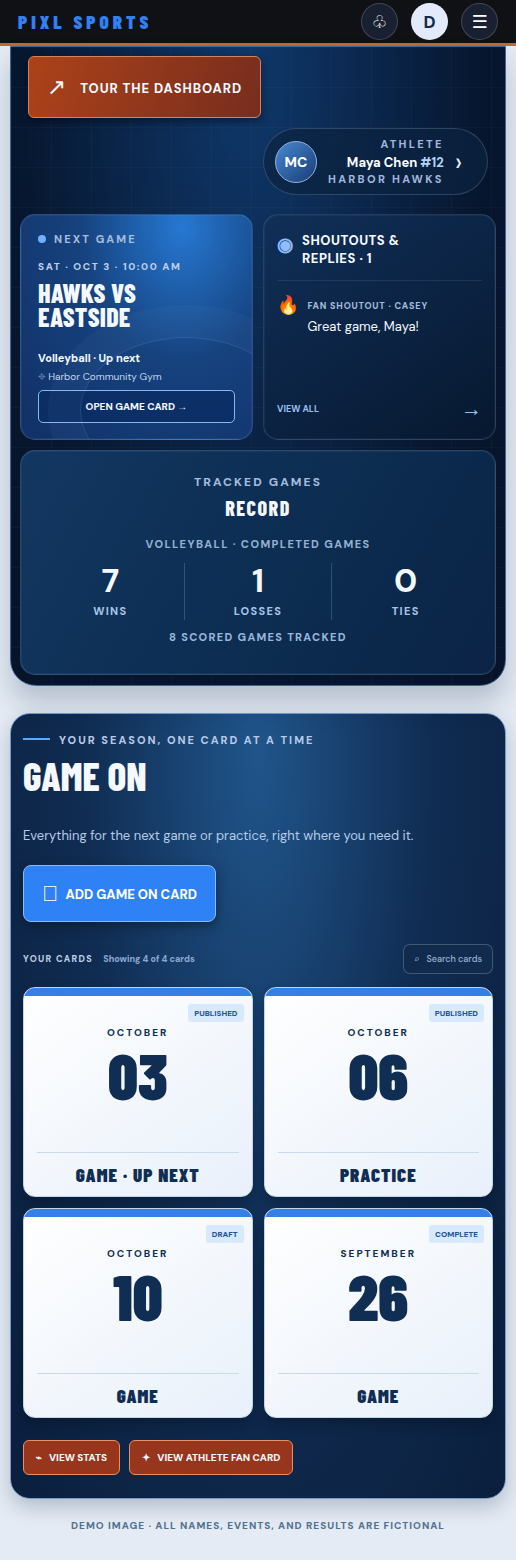
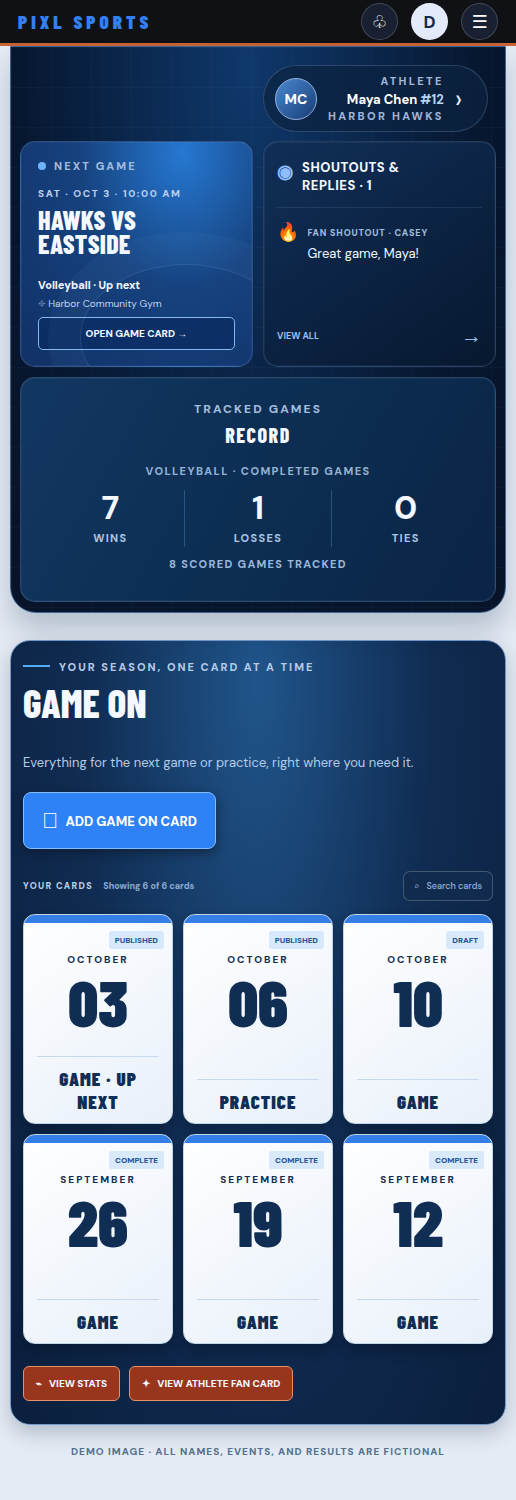
Update agent metadata and dashboard assets
Replit-Commit-Author: Agent

diff --git a/exports/pixl-real-dashboard-demo.html b/exports/pixl-real-dashboard-demo.html
@@ -20,9 +20,7 @@
   .summary {padding:9px 9px 10px;border-radius:0 0 26px 26px;border:1px solid #416593;background:radial-gradient(ellipse at 48% 4%,#10396c 0%,#07172f 65%,#081329 100%);box-shadow:0 17px 27px #061d3d35;position:relative;overflow:hidden}
   .summary:before {content:"";position:absolute;inset:0;opacity:.25;background-image:linear-gradient(90deg,#8ca7ca2b 1px,transparent 1px),linear-gradient(#8ca7ca2b 1px,transparent 1px);background-size:40px 40px;pointer-events:none}
   .summary > * {position:relative;z-index:1}
-  .summary-head {height:158px;padding:0 8px;display:flex;flex-direction:column;align-items:flex-end}
-  .tour {align-self:flex-start;margin:0 0 10px 0;padding:15px 18px;background:linear-gradient(105deg,#ac4219,#782d1e);border:1px solid #d48457;border-radius:6px;box-shadow:0 3px 9px #0007;text-transform:uppercase;font-size:13px;font-weight:800;letter-spacing:.07em}
-  .tour .arrow {font-size:23px;font-weight:400;margin-right:9px;vertical-align:-2px}
+  .summary-head {height:85px;padding:0 8px;display:flex;align-items:center;justify-content:flex-end}
   .athlete {display:flex;align-items:center;gap:11px;min-width:225px;padding:8px 11px;border-radius:70px;border:1px solid #a3bde83a;background:#0b2240b8}
   .avatar {width:42px;height:42px;flex:none;border:1px solid #91b1dc;border-radius:50%;display:grid;place-items:center;font-size:14px;font-weight:800;color:#fff;background:linear-gradient(135deg,#4a88d0,#173d76)}
   .athlete-copy {text-align:right}
@@ -68,7 +66,7 @@
   .toolbar {display:flex;justify-content:space-between;align-items:center;gap:9px;margin:22px 0 13px;color:#bdd1e7;font-size:9px;font-weight:800;letter-spacing:1.3px;text-transform:uppercase}
   .toolbar b {letter-spacing:0;color:#89a9d2;text-transform:none}
   .search {border:1px solid #ffffff35;background:#102b4e;border-radius:7px;color:#9bb5d9;padding:8px 10px;font-size:9px;font-weight:500;letter-spacing:0;text-transform:none;white-space:nowrap}
-  .cards {display:grid;grid-template-columns:1fr 1fr;gap:11px}
+  .cards {display:grid;grid-template-columns:repeat(3,minmax(0,1fr));gap:10px}
   .card {height:210px;position:relative;border:1px solid #bfd5e8;border-radius:12px;background:linear-gradient(145deg,#fff 0%,#e8f0fa 100%);color:#102d53;text-align:center;overflow:hidden;box-shadow:0 7px 12px #04102260}
   .card .stripe {height:8px;background:#367fe7}.card .tag {position:absolute;right:8px;top:16px;color:#205496;background:#d8e9fb;padding:4px 6px;border-radius:3px;font-size:8px;font-weight:800;text-transform:uppercase}
   .card .month {font-size:10px;font-weight:800;letter-spacing:2px;text-transform:uppercase;margin-top:30px}
@@ -84,7 +82,6 @@
   <main>
     <section class="summary">
       <div class="summary-head">
-        <div class="tour"><span class="arrow">↗</span> Tour the dashboard</div>
         <div class="athlete"><span class="avatar">MC</span><span class="athlete-copy"><small>ATHLETE</small><b>Maya Chen <span>#12</span></b><small>HARBOR HAWKS</small></span><span class="chevron">›</span></div>
       </div>
       <div class="tiles">
@@ -98,12 +95,14 @@
       <h2 class="condensed">GAME ON</h2>
       <p class="intro">Everything for the next game or practice, right where you need it.</p>
       <div class="add"><span>＋</span>ADD GAME ON CARD</div>
-      <div class="toolbar"><span>YOUR CARDS &nbsp; <b>Showing 4 of 4 cards</b></span><span class="search">⌕ &nbsp; Search cards</span></div>
+      <div class="toolbar"><span>YOUR CARDS &nbsp; <b>Showing 6 of 6 cards</b></span><span class="search">⌕ &nbsp; Search cards</span></div>
       <div class="cards">
         <article class="card"><div class="stripe"></div><div class="tag">PUBLISHED</div><div class="month">OCTOBER</div><strong>03</strong><div class="kind">Game · Up next</div></article>
         <article class="card"><div class="stripe"></div><div class="tag">PUBLISHED</div><div class="month">OCTOBER</div><strong>06</strong><div class="kind">Practice</div></article>
         <article class="card"><div class="stripe"></div><div class="tag">DRAFT</div><div class="month">OCTOBER</div><strong>10</strong><div class="kind">Game</div></article>
         <article class="card"><div class="stripe"></div><div class="tag">COMPLETE</div><div class="month">SEPTEMBER</div><strong>26</strong><div class="kind">Game</div></article>
+        <article class="card"><div class="stripe"></div><div class="tag">COMPLETE</div><div class="month">SEPTEMBER</div><strong>19</strong><div class="kind">Game</div></article>
+        <article class="card"><div class="stripe"></div><div class="tag">COMPLETE</div><div class="month">SEPTEMBER</div><strong>12</strong><div class="kind">Game</div></article>
       </div>
       <div class="quick"><span>⌁ &nbsp; VIEW STATS</span><span>✦ &nbsp; VIEW ATHLETE FAN CARD</span></div>
     </section>
